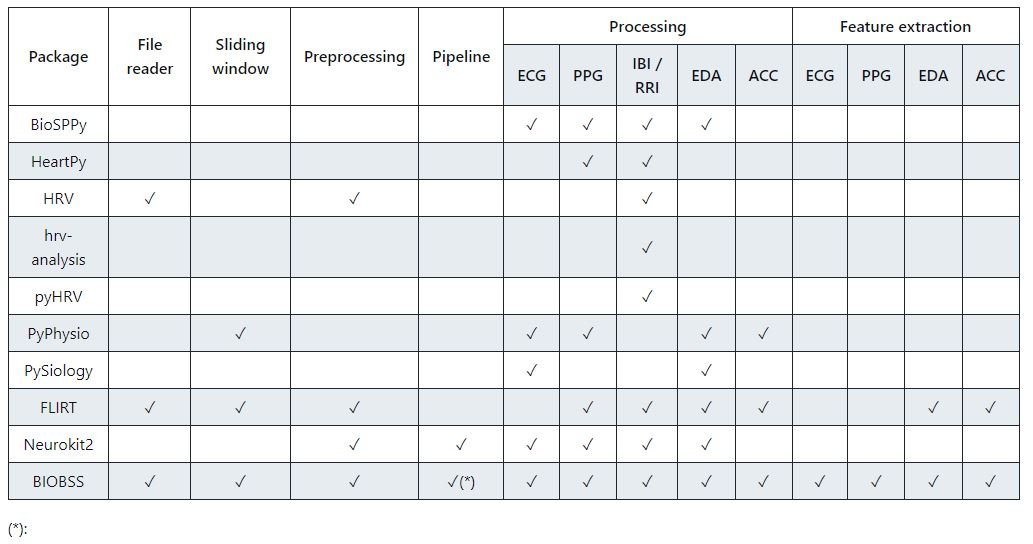
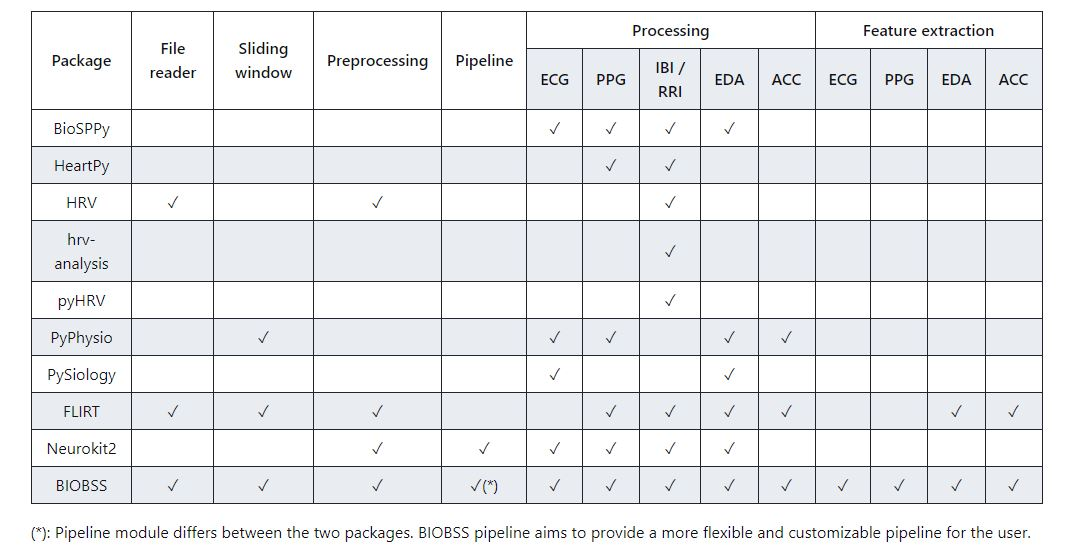
updated readme.md

Changed region(s): [[0.0, 0.0, 0.9913, 0.9688], [0.6196, 0.4375, 0.6505, 0.4688], [0.0, 0.9688, 0.031, 1.0]]

diff --git a/readme.md b/readme.md
@@ -205,7 +205,7 @@ The table shows the capabilites of BIOBSS and the other Python packages for phys
 </table>
 
 (*): Pipeline module differs between the two packages. BIOBSS pipeline aims to provide a more flexible and customizable pipeline for the user.
-
+Modified from Föll, Simon, et al. “FLIRT: A feature generation toolkit for wearable data.” Computer Methods and Programs in Biomedicine 212 (2021): 106461.
 
 ## <div align="left"> __Preprocessing__ </div>
 BIOBSS has modules with basic signal preprocessing functionalities. These include:
@@ -369,14 +369,14 @@ The main focus of BIOBSS is to generate and save pipelines for signal processing
 - Make it possible to save and share pipelines to compare results of different works
 
 
-To learn more, visit the [Documentation page](biobss.readthedocs.io/en/latest/).
+To learn more, visit the [Documentation page](https://biobss.readthedocs.io/en/latest/).
 
 
 ## <div align="center"> Installation </div>
 
 Through pip,
 
-    Project not yet uploaded to pypi
+    pip install biobss
 
 or build from source,
 
